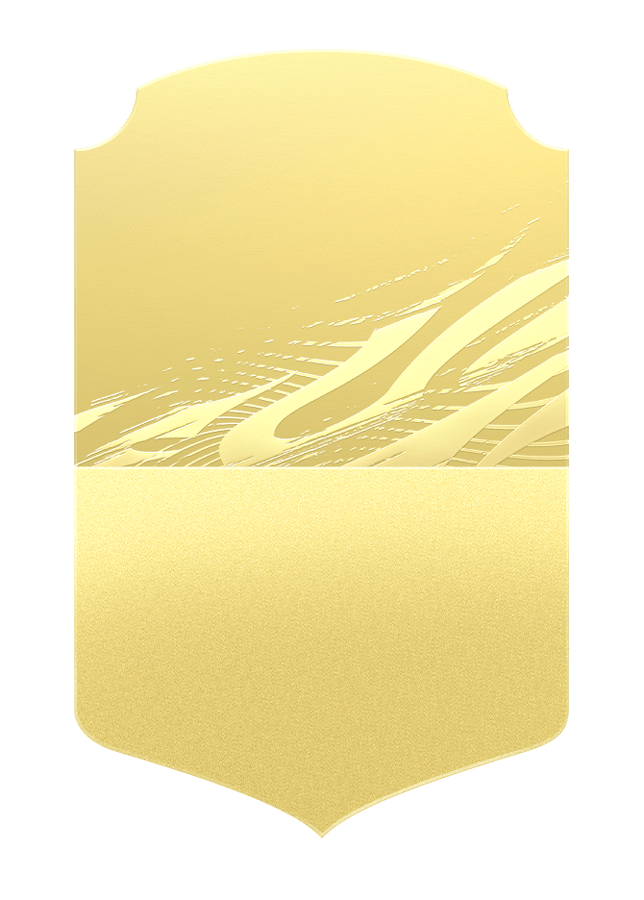
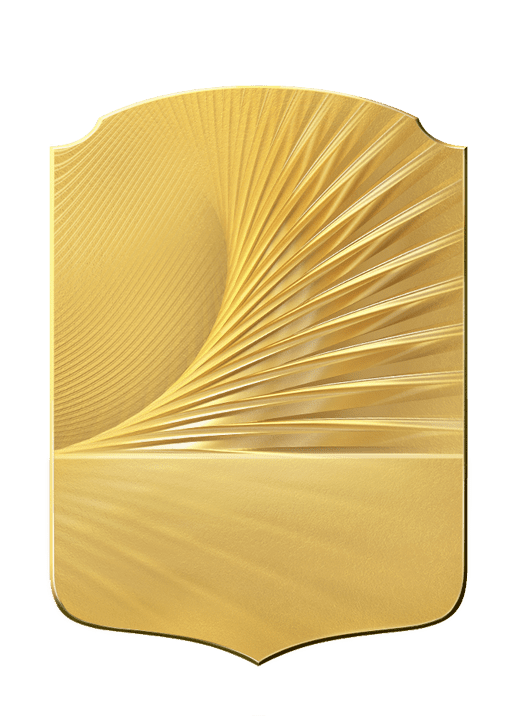
fix(monopoly): fondos Rare oro/plata de EA FC 26 (no FIFA 21)
Los fondos Rare que se habian bajado eran de la ruta fifa21 de
cdn.futbin.com. El dataset entero es year:2026 (EA Sports FC 26), asi que
se reemplazaron por la ruta fifa26 del mismo CDN (el diseno de carta cambia
cada edicion). Mismos nombres de archivo, sin cambios de codigo mas alla
del comentario.

diff --git a/packages/client/src/juegos/monopoly/texturasMonopoly.ts b/packages/client/src/juegos/monopoly/texturasMonopoly.ts
@@ -81,8 +81,9 @@ function fondoCarta(ctx: CanvasRenderingContext2D, claro: string, oscuro: string
 // 2 fondos "Rare" del dataset (cards_bg_e_0_0_2/3.png) resultaron ser el
 // template COMÚN de EA (liso, sin el brillo/cinta característico de "Rare"
 // — el propio nombre "e_0_0_*" los delata: familia "0" = común), así que se
-// reemplazaron por el fondo Rare oro/plata real (cdn.futbin.com, mismo
-// criterio de uso privado que el resto de los assets de este dataset).
+// reemplazaron por el fondo Rare oro/plata de EA Sports FC 26 (cdn.futbin.com
+// /content/fifa26/…, mismo año que el resto del dataset — year:2026 en
+// jugadores_monopoly.json; mismo criterio de uso privado que los demás assets).
 const MARCO_ICON = "/datos/cartasFondo/cards_bg_e_1_12_0.png";
 const MARCO_RARE_ORO = "/datos/cartasFondo/rare-oro.png";
 const MARCO_RARE_PLATA = "/datos/cartasFondo/rare-plata.png";
